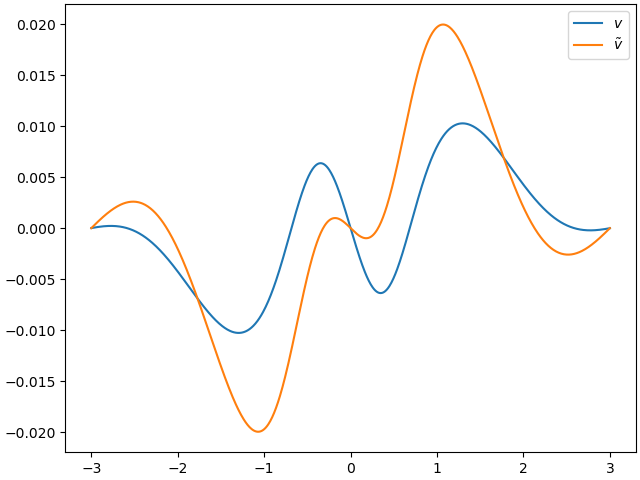
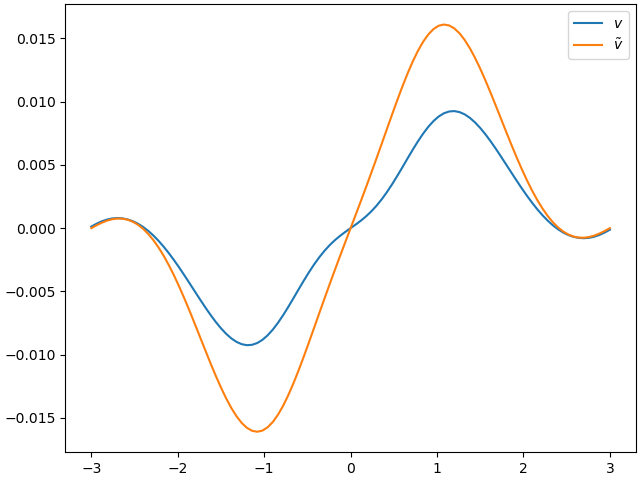
commit

diff --git a/solvers/solver_pressure_correction_1D.py b/solvers/solver_pressure_correction_1D.py
@@ -98,7 +98,7 @@ nu = 1.0
 gamma = 2.0
 rho_initial_condition = fv.initial_condition.gaussian_rho
 u_initial_condition = fv.initial_condition.constant_u
-case = fv.computational_case(a = -3.0, b = 3.0, Tf = 0.5, N = 800, dt = 0.0001, ng = 1)
+case = fv.computational_case(a = -3.0, b = 3.0, Tf = 0.5, N = 100, dt = 0.01, ng = 1)
 "-------initialization of the scheme--------------"
 a = case.a
 b = case.b
